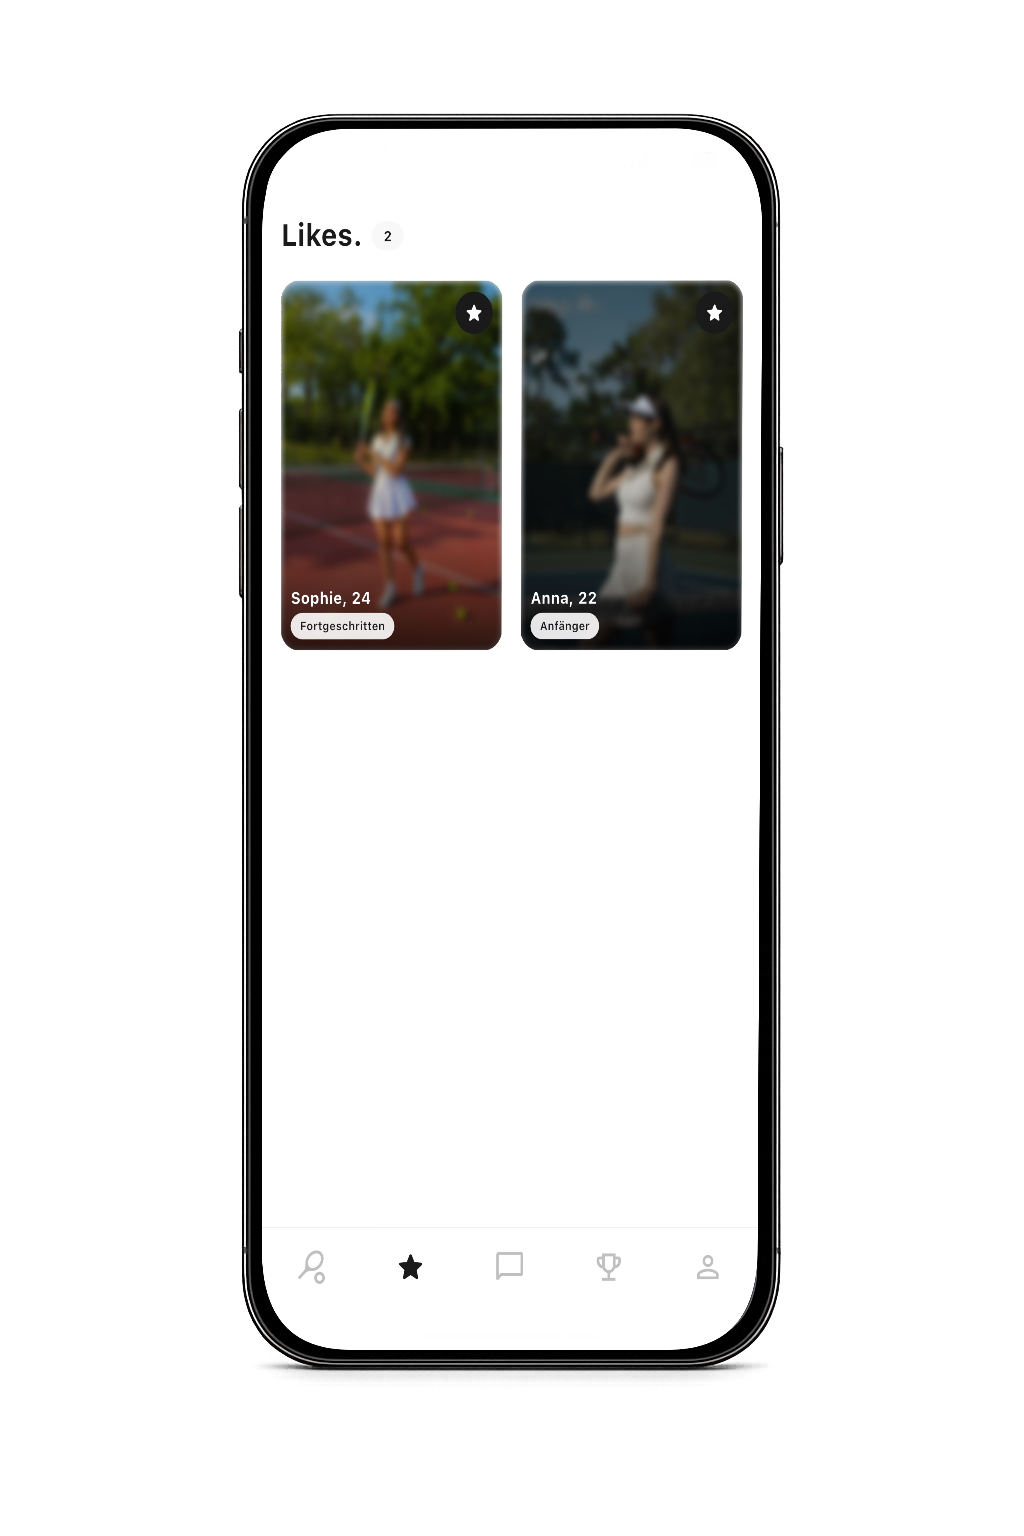
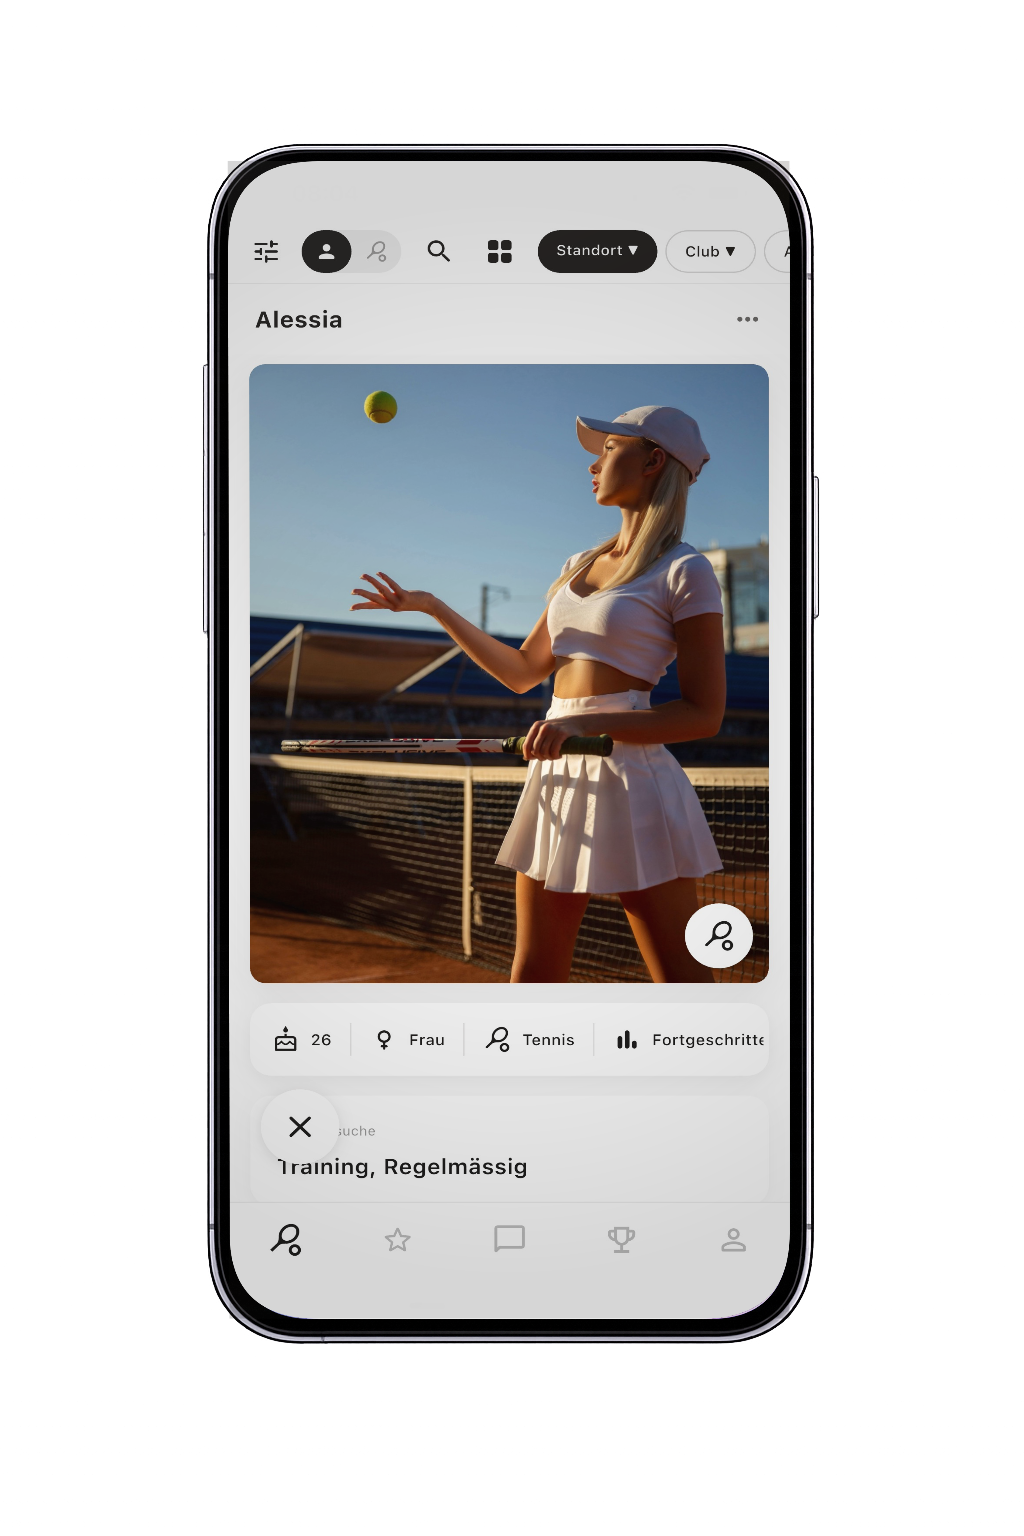
Replace all mockups with 7 new screenshots

diff --git a/src/pages/Home.jsx b/src/pages/Home.jsx
@@ -169,11 +169,13 @@ function LangSwitch({ lang, onChange }) {
 }
 
 const MOCKUPS = [
-  '/mockup-1.png?v=3',
-  '/mockup-2.png?v=3',
-  '/mockup-3.png?v=3',
-  '/mockup-4.png?v=3',
-  '/mockup-5.png?v=3',
+  '/mockup-1.png?v=4',
+  '/mockup-2.png?v=4',
+  '/mockup-3.png?v=4',
+  '/mockup-4.png?v=4',
+  '/mockup-5.png?v=4',
+  '/mockup-6.png?v=4',
+  '/mockup-7.png?v=4',
 ];
 
 function MockupCarousel() {
